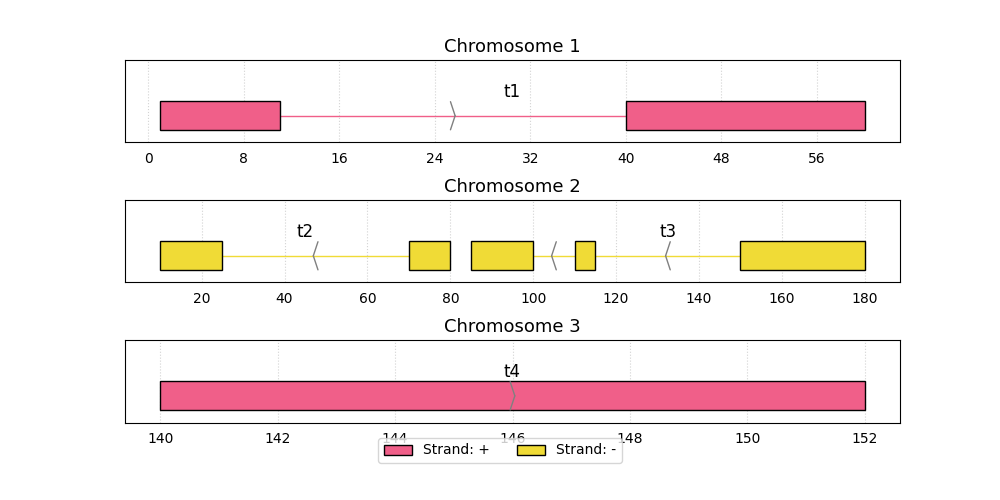
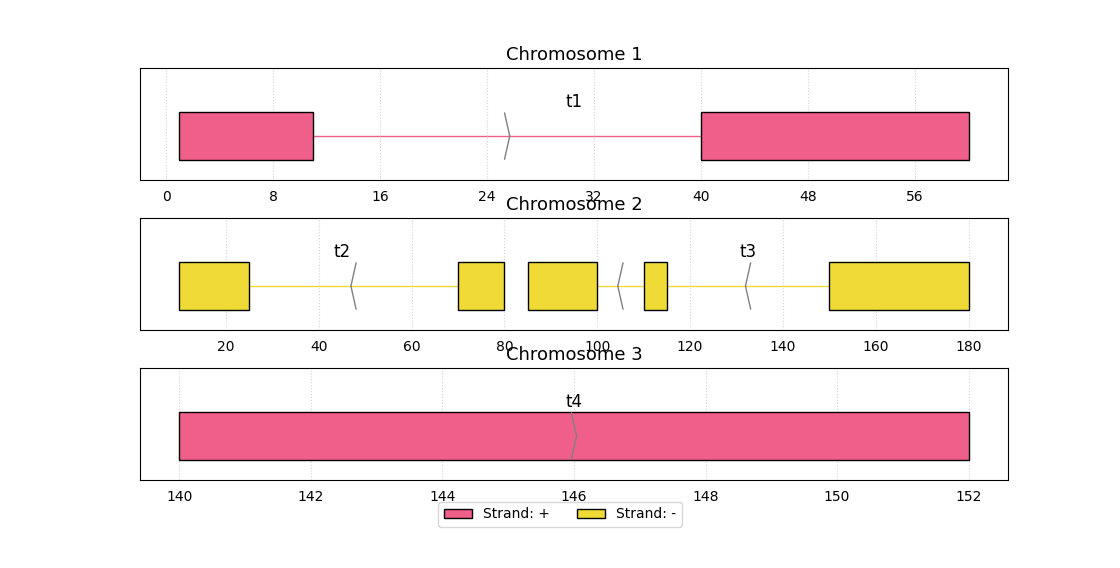
Regenerate tutorial images with inferred heights

diff --git a/tests/test_auto_height.py b/tests/test_auto_height.py
@@ -57,6 +57,12 @@ def test_auto_height_px_per_unit_can_be_set_globally():
     assert global_fig.layout.height == local_fig.layout.height
 
 
+def test_auto_size_is_height_only_even_with_legend():
+    fig = pe.plot(DATA, id_col="transcript_id", legend=True, return_plot="fig")
+
+    assert fig.layout.width == 1120
+
+
 def test_explicit_file_size_overrides_auto_height(tmp_path):
     output = tmp_path / "plot.pdf"
     fig = pe.plot(DATA, id_col="transcript_id", to_file=(str(output), (640, 480)), return_plot="fig")

diff --git a/src/pyrangeyes/plot_main.py b/src/pyrangeyes/plot_main.py
@@ -191,12 +191,9 @@ def _auto_file_size(
         )
     )
 
+    # Auto sizing is height-only. Keep width fixed unless the caller supplies
+    # an explicit ``to_file=(filename, (width, height))`` override.
     width = 1120
-    if track_names:
-        width += 190
-    if legend:
-        width += 120
-    width = int(max(900, min(2200, width)))
     return (width, height)
 
 

diff --git a/docs/tutorial.rst b/docs/tutorial.rst
@@ -54,7 +54,7 @@ an address is printed in the console. The plot can be accessed by opening this a
 
 .. image:: images/prp_rtd_01_mpl.png
 
-*Figure size: 1000 × 500 px (10.00 × 5.00 in).*
+*Figure size: 1120 × 535 px (11.20 × 5.35 in).*
 Interactive navigation is intuitive:
 
 * Hover over intervals to see their details in a **tooltip**
@@ -67,7 +67,7 @@ use the ``to_file`` parameter of :func:`plot <pyrangeyes.plot>`.
 
     >>> pe.plot(x, to_file="my_plot.png")
 
-When no explicit size is provided, pyrangeyes now infers the figure height automatically from the number of panels and stacked interval rows. The global option ``auto_height_px_per_unit`` controls the pixel length assigned to one vertical layout unit:
+When no explicit size is provided, pyrangeyes now infers the figure height automatically from the number of panels and stacked interval rows. Auto sizing changes height only; width stays fixed unless an explicit ``(width, height)`` export size is provided. The global option ``auto_height_px_per_unit`` controls the pixel length assigned to one vertical layout unit:
 
     >>> pe.set_options("auto_height_px_per_unit", 52)
 
@@ -88,7 +88,7 @@ indicating the column name that defines the groups of intervals.
 
 .. image:: images/prp_rtd_02_mpl.png
 
-*Figure size: 1000 × 500 px (10.00 × 5.00 in).*
+*Figure size: 1120 × 535 px (11.20 × 5.35 in).*
 Because the ``id_col`` parameter is used frequently, it can be set as default for all plots using function
 :func:`set_id_col <pyrangeyes.set_id_col>`. The following code is equivalent to the previous one:
 
@@ -121,7 +121,7 @@ The ``limits`` parameter accepts different input types:
 
 .. image:: images/prp_rtd_04_mpl.png
 
-*Figure size: 1000 × 500 px (10.00 × 5.00 in).*
+*Figure size: 1120 × 535 px (11.20 × 5.35 in).*
 To plot with specified limits, use the following code:
 
     >>> pe.plot(x, limits=(0,300))
@@ -130,7 +130,7 @@ To plot with specified limits, use the following code:
 
 .. image:: images/prp_rtd_05_mpl.png
 
-*Figure size: 1000 × 500 px (10.00 × 5.00 in).*
+*Figure size: 1120 × 535 px (11.20 × 5.35 in).*
 Defining regions for panels
 ----------------------------
 
@@ -143,7 +143,7 @@ For example, this makes one panel per transcript by using a column name:
 
 .. image:: images/prp_rtd_29_mpl.png
 
-*Figure size: 1000 × 620 px (10.00 × 6.20 in).*
+*Figure size: 1120 × 573 px (11.20 × 5.73 in).*
 Explicit regions are also supported with ``(chromosome, start, end)`` tuples or PyRanges rows:
 
     >>> pe.plot(x, regions=[(2, 60, 120), (2, 140, 190), (1, None, None)])
@@ -152,7 +152,7 @@ Explicit regions are also supported with ``(chromosome, start, end)`` tuples or 
 
 .. image:: images/prp_rtd_43_mpl.png
 
-*Figure size: 1000 × 620 px (10.00 × 6.20 in).*
+*Figure size: 1120 × 535 px (11.20 × 5.35 in).*
 Plotting intervals in strand direction
 --------------------------------------
 
@@ -166,7 +166,7 @@ Note the decreasing X axis.
 
 .. image:: images/prp_rtd_38_mpl.png
 
-*Figure size: 1000 × 500 px (10.00 × 5.00 in).*
+*Figure size: 1120 × 535 px (11.20 × 5.35 in).*
 ``reverse`` also accepts explicit inputs such as ``True``, a list of chromosomes, or a ``{chrom: bool}`` mapping.
 
 Coloring
@@ -184,7 +184,7 @@ For example, let's color by the Strand column:
 
 .. image:: images/prp_rtd_06_mpl.png
 
-*Figure size: 1000 × 500 px (10.00 × 5.00 in).*
+*Figure size: 1120 × 535 px (11.20 × 5.35 in).*
 Now the "+" strand transcripts are displayed in one color and the ones on the "-" strand in another color.
 Note that pyrangeyes used its default color scheme, and mapped each value in the  ``fill_col`` column to a color.
 
@@ -200,7 +200,7 @@ Using a dictionary allows to exert full control over the coloring, explicitly se
 
 .. image:: images/prp_rtd_07_mpl.png
 
-*Figure size: 1000 × 500 px (10.00 × 5.00 in).*
+*Figure size: 1120 × 535 px (11.20 × 5.35 in).*
 Alternatively, the user may just define the sequence of colors used
 (letting pyrangeyes pick which color to assign to each value).
 One can provide a list of colors in hex or rgb; or a string recognized as the name of an available
@@ -213,7 +213,7 @@ or an actual Matplotlib or Plotly colormap object. Below, we invoke the "Dark2" 
 
 .. image:: images/prp_rtd_08_mpl.png
 
-*Figure size: 1000 × 500 px (10.00 × 5.00 in).*
+*Figure size: 1120 × 535 px (11.20 × 5.35 in).*
 If a column already stores literal colors (for example hex strings), set ``colormap="direct"``
 to use those values directly instead of mapping them as categories:
 
@@ -224,7 +224,7 @@ to use those values directly instead of mapping them as categories:
 
 .. image:: images/prp_rtd_30_mpl.png
 
-*Figure size: 1000 × 500 px (10.00 × 5.00 in).*
+*Figure size: 1120 × 535 px (11.20 × 5.35 in).*
 Enable ``legend=True`` to label the colors used in the plot. Also, by default,
 interval outlines use the same resolved color as the fill. For one fixed outline
 color, use the ``outline_color`` option:
@@ -235,7 +235,7 @@ color, use the ``outline_color`` option:
 
 .. image:: images/prp_rtd_31_mpl.png
 
-*Figure size: 1000 × 500 px (10.00 × 5.00 in).*
+*Figure size: 1120 × 568 px (11.20 × 5.68 in).*
 Use ``outline_col`` to map outlines from a column. When fill and outline columns use
 different value domains, provide a channel mapping with separate ``"fill"`` and
 ``"outline"`` entries:
@@ -254,7 +254,7 @@ different value domains, provide a channel mapping with separate ``"fill"`` and
 
 .. image:: images/prp_rtd_32_mpl.png
 
-*Figure size: 1000 × 500 px (10.00 × 5.00 in).*
+*Figure size: 1120 × 535 px (11.20 × 5.35 in).*
 Numeric columns can be colored as a continuous gradient with ``type="quantitative"``.
 Values are normalized to the observed minimum and maximum by default:
 
@@ -265,7 +265,7 @@ Values are normalized to the observed minimum and maximum by default:
 
 .. image:: images/prp_rtd_33_mpl.png
 
-*Figure size: 1000 × 500 px (10.00 × 5.00 in).*
+*Figure size: 1120 × 568 px (11.20 × 5.68 in).*
 Set ``range=(min, max)`` to choose the normalization range manually. The gradient
 can be a named continuous colormap, a list of colors, or normalized color stops:
 
@@ -280,7 +280,7 @@ can be a named continuous colormap, a list of colors, or normalized color stops:
 
 .. image:: images/prp_rtd_34_mpl.png
 
-*Figure size: 1000 × 500 px (10.00 × 5.00 in).*
+*Figure size: 1120 × 568 px (11.20 × 5.68 in).*
 Text labels and annotations
 ---------------------------
 
@@ -299,7 +299,7 @@ and distance from intervals with ``label_pad``.
 
 .. image:: images/prp_rtd_39_mpl.png
 
-*Figure size: 1100 × 520 px (11.00 × 5.20 in).*
+*Figure size: 1120 × 528 px (11.20 × 5.28 in).*
 Labels can also be styled independently from interval fill colors. Use a channel
 ``colormap`` to provide separate mappings for ``"fill"`` and ``"label"``.
 
@@ -316,7 +316,7 @@ Labels can also be styled independently from interval fill colors. Use a channel
 
 .. image:: images/prp_rtd_40_mpl.png
 
-*Figure size: 1100 × 520 px (11.00 × 5.20 in).*
+*Figure size: 1120 × 573 px (11.20 × 5.73 in).*
 Quick option reference
 ----------------------
 
@@ -400,7 +400,7 @@ Any listed option can be provided directly to :func:`plot <pyrangeyes.plot>` for
 
 .. image:: images/prp_rtd_15_mpl.png
 
-*Figure size: 1000 × 500 px (10.00 × 5.00 in).*
+*Figure size: 1120 × 535 px (11.20 × 5.35 in).*
 To set options as defaults for later plots, use :func:`set_options <pyrangeyes.set_options>`:
 
     >>> pe.reset_options()
@@ -445,7 +445,7 @@ documentation. For example, here's the "dark" theme:
 
 .. image:: images/prp_rtd_16_mpl.png
 
-*Figure size: 1000 × 500 px (10.00 × 5.00 in).*
+*Figure size: 1120 × 535 px (11.20 × 5.35 in).*
 Reset options before continuing, so later examples do not inherit the dark theme:
 
     >>> pe.reset_options()
@@ -465,7 +465,7 @@ To instead display one transcript per row, set the ``pack`` parameter as ``False
 
 .. image:: images/prp_rtd_09_mpl.png
 
-*Figure size: 1000 × 500 px (10.00 × 5.00 in).*
+*Figure size: 1120 × 528 px (11.20 × 5.28 in).*
 When ``pack=False``, rows are shown in the first-seen order of the input by default.
 This is useful when a PyRanges object was assembled by concatenating groups in a specific order,
 or when the order of rows already carries meaning. To instead let pyrangeyes order groups by
@@ -487,7 +487,7 @@ Then compare the unshrunk and shrunk views::
 
 .. image:: images/prp_rtd_13_mpl.png
 
-*Figure size: 1000 × 500 px (10.00 × 5.00 in).*
+*Figure size: 1120 × 577 px (11.20 × 5.77 in).*
 ::
 
     >>> pe.plot(ppp, shrink=True, label=False)
@@ -497,7 +497,7 @@ Then compare the unshrunk and shrunk views::
 .. image:: images/prp_rtd_14_mpl.png
 
 
-*Figure size: 1000 × 500 px (10.00 × 5.00 in).*
+*Figure size: 1120 × 577 px (11.20 × 5.77 in).*
 Displaying multiple tracks
 --------------------------
 
@@ -527,7 +527,7 @@ when tracks use different ID columns.
 
 .. image:: images/prp_rtd_17_mpl.png
 
-*Figure size: 1240 × 1258 px (12.40 × 12.58 in).*
+*Figure size: 1120 × 1258 px (11.20 × 12.58 in).*
 Track-specific options override plot defaults for only that track. Use them for
 per-track coloring, compact squished tracks, and labels based on each track's ID:
 
@@ -558,7 +558,7 @@ per-track coloring, compact squished tracks, and labels based on each track's ID
 
 .. image:: images/prp_rtd_18_mpl.png
 
-*Figure size: 1000 × 620 px (10.00 × 6.20 in).*
+*Figure size: 1120 × 657 px (11.20 × 6.57 in).*
 If a track specifies its own ``colormap``, that track gets an independent mapping,
 even when the colormap name is the same as another track's.
 
@@ -587,7 +587,7 @@ are combined as tracks:
 
 .. image:: images/prp_rtd_35_mpl.png
 
-*Figure size: 1000 × 620 px (10.00 × 6.20 in).*
+*Figure size: 1120 × 308 px (11.20 × 3.08 in).*
 List all available adapters with ``pe.adapters.describe()`` and inspect adapter
 options with ``pe.print_options(adapter="mRNA")``.
 
@@ -608,7 +608,7 @@ Add columns with ``tooltip`` templates, and customize panel titles with ``panel_
 .. image:: images/prp_rtd_10_mpl.png
 
 
-*Figure size: 1000 × 500 px (10.00 × 5.00 in).*
+*Figure size: 1120 × 535 px (11.20 × 5.35 in).*
 Adding aligned plots
 --------------------
 
@@ -634,7 +634,7 @@ See :func:`make_scatter() <pyrangeyes.make_scatter>` for scatter helper options.
 .. image:: images/prp_rtd_21_mpl.png
 
 
-*Figure size: 1000 × 620 px (10.00 × 6.20 in).*
+*Figure size: 1120 × 583 px (11.20 × 5.83 in).*
 Integrating Pyrangeyes with External Visualizations
 ---------------------------------------------------
 
@@ -651,4 +651,4 @@ and compose it with other Dash components.
 
 .. image:: images/prp_rtd_27.png
 
-*Figure size: 1600 × 800 px (16.00 × 8.00 in).*
+*Figure size: 1120 × 290 px (11.20 × 2.90 in).*
